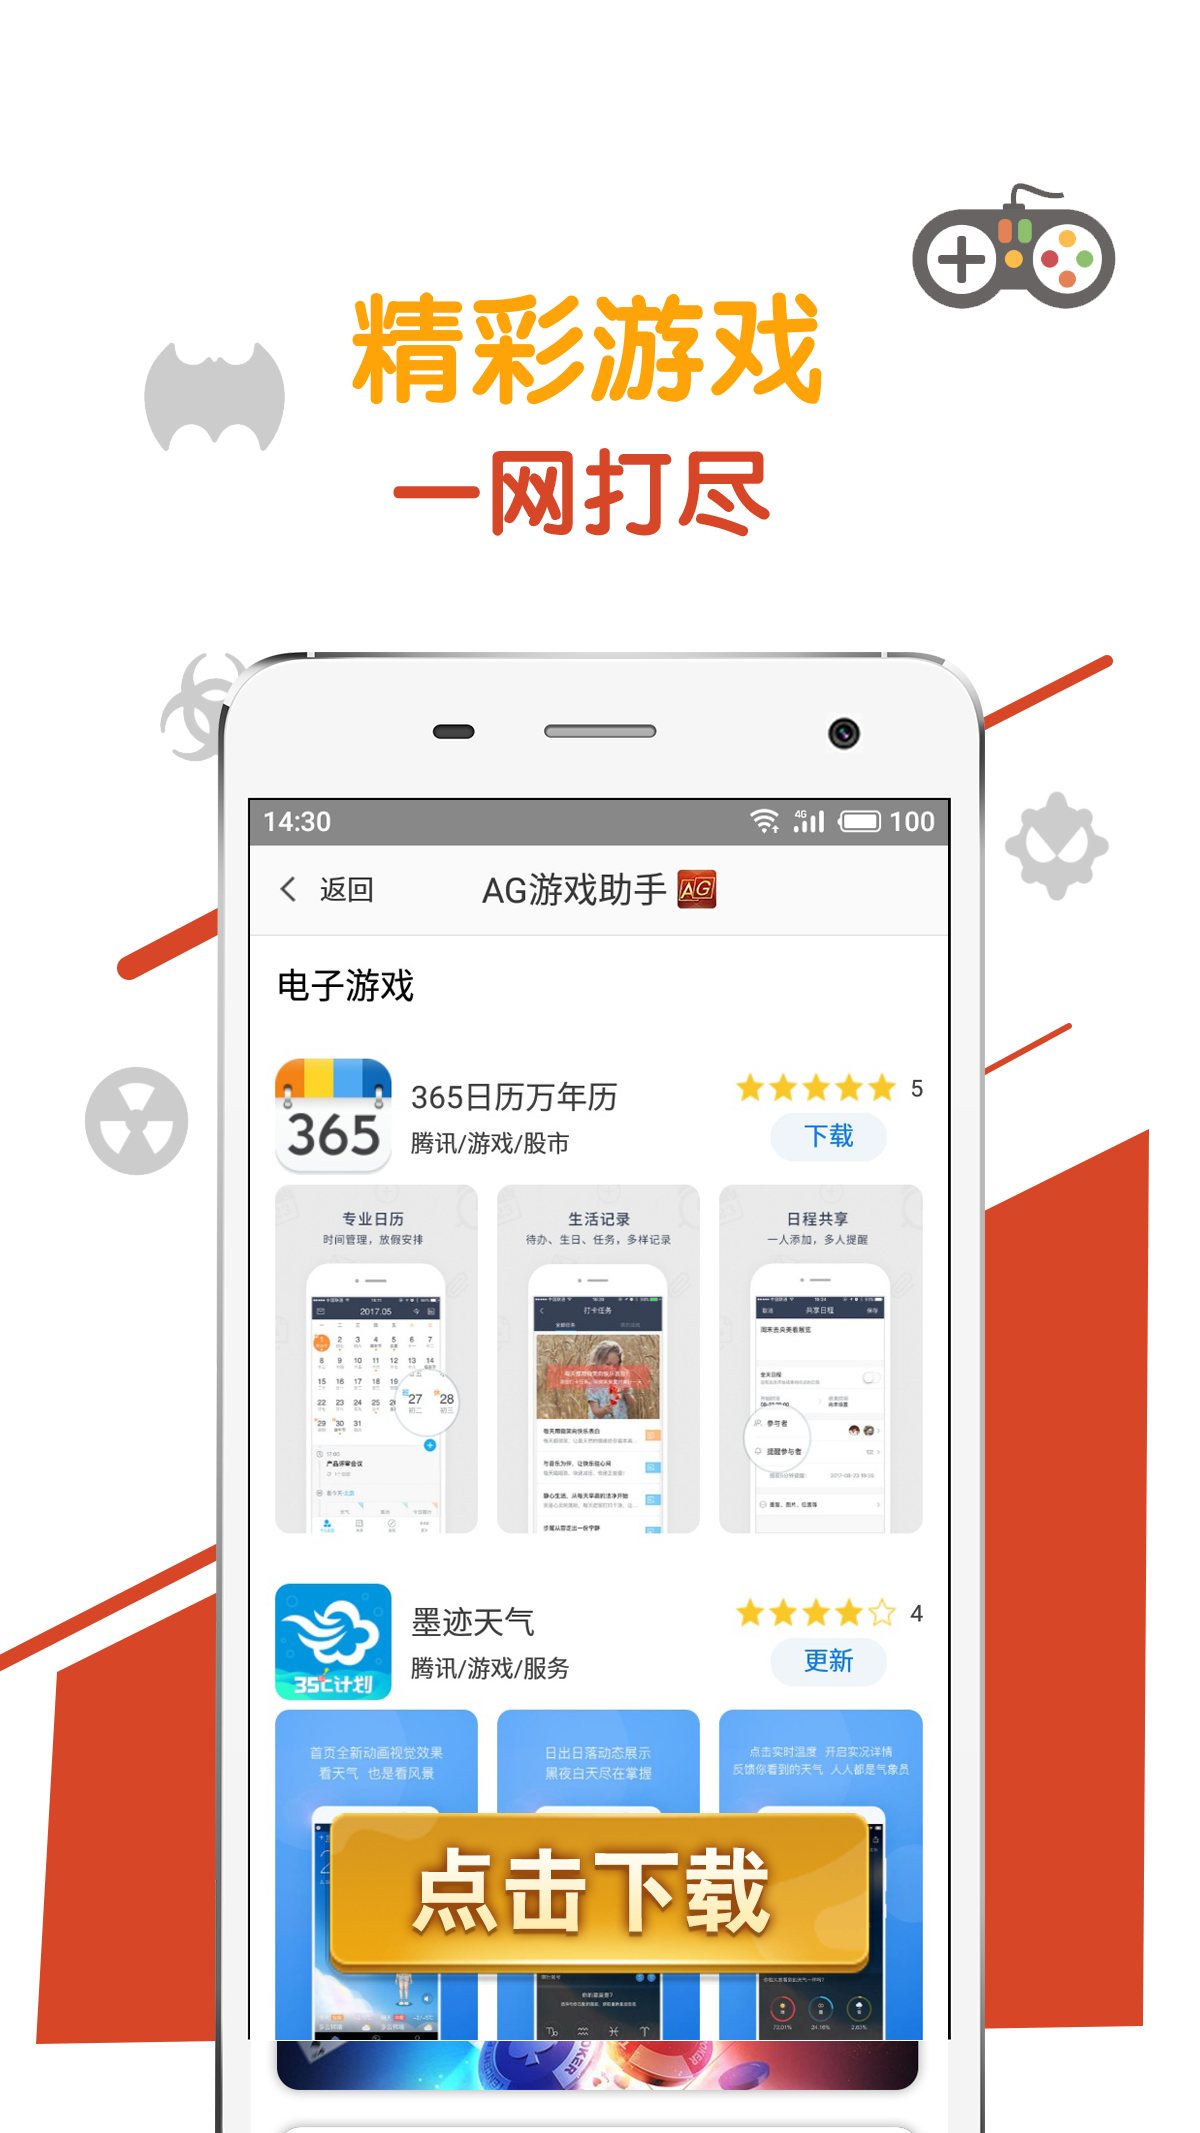
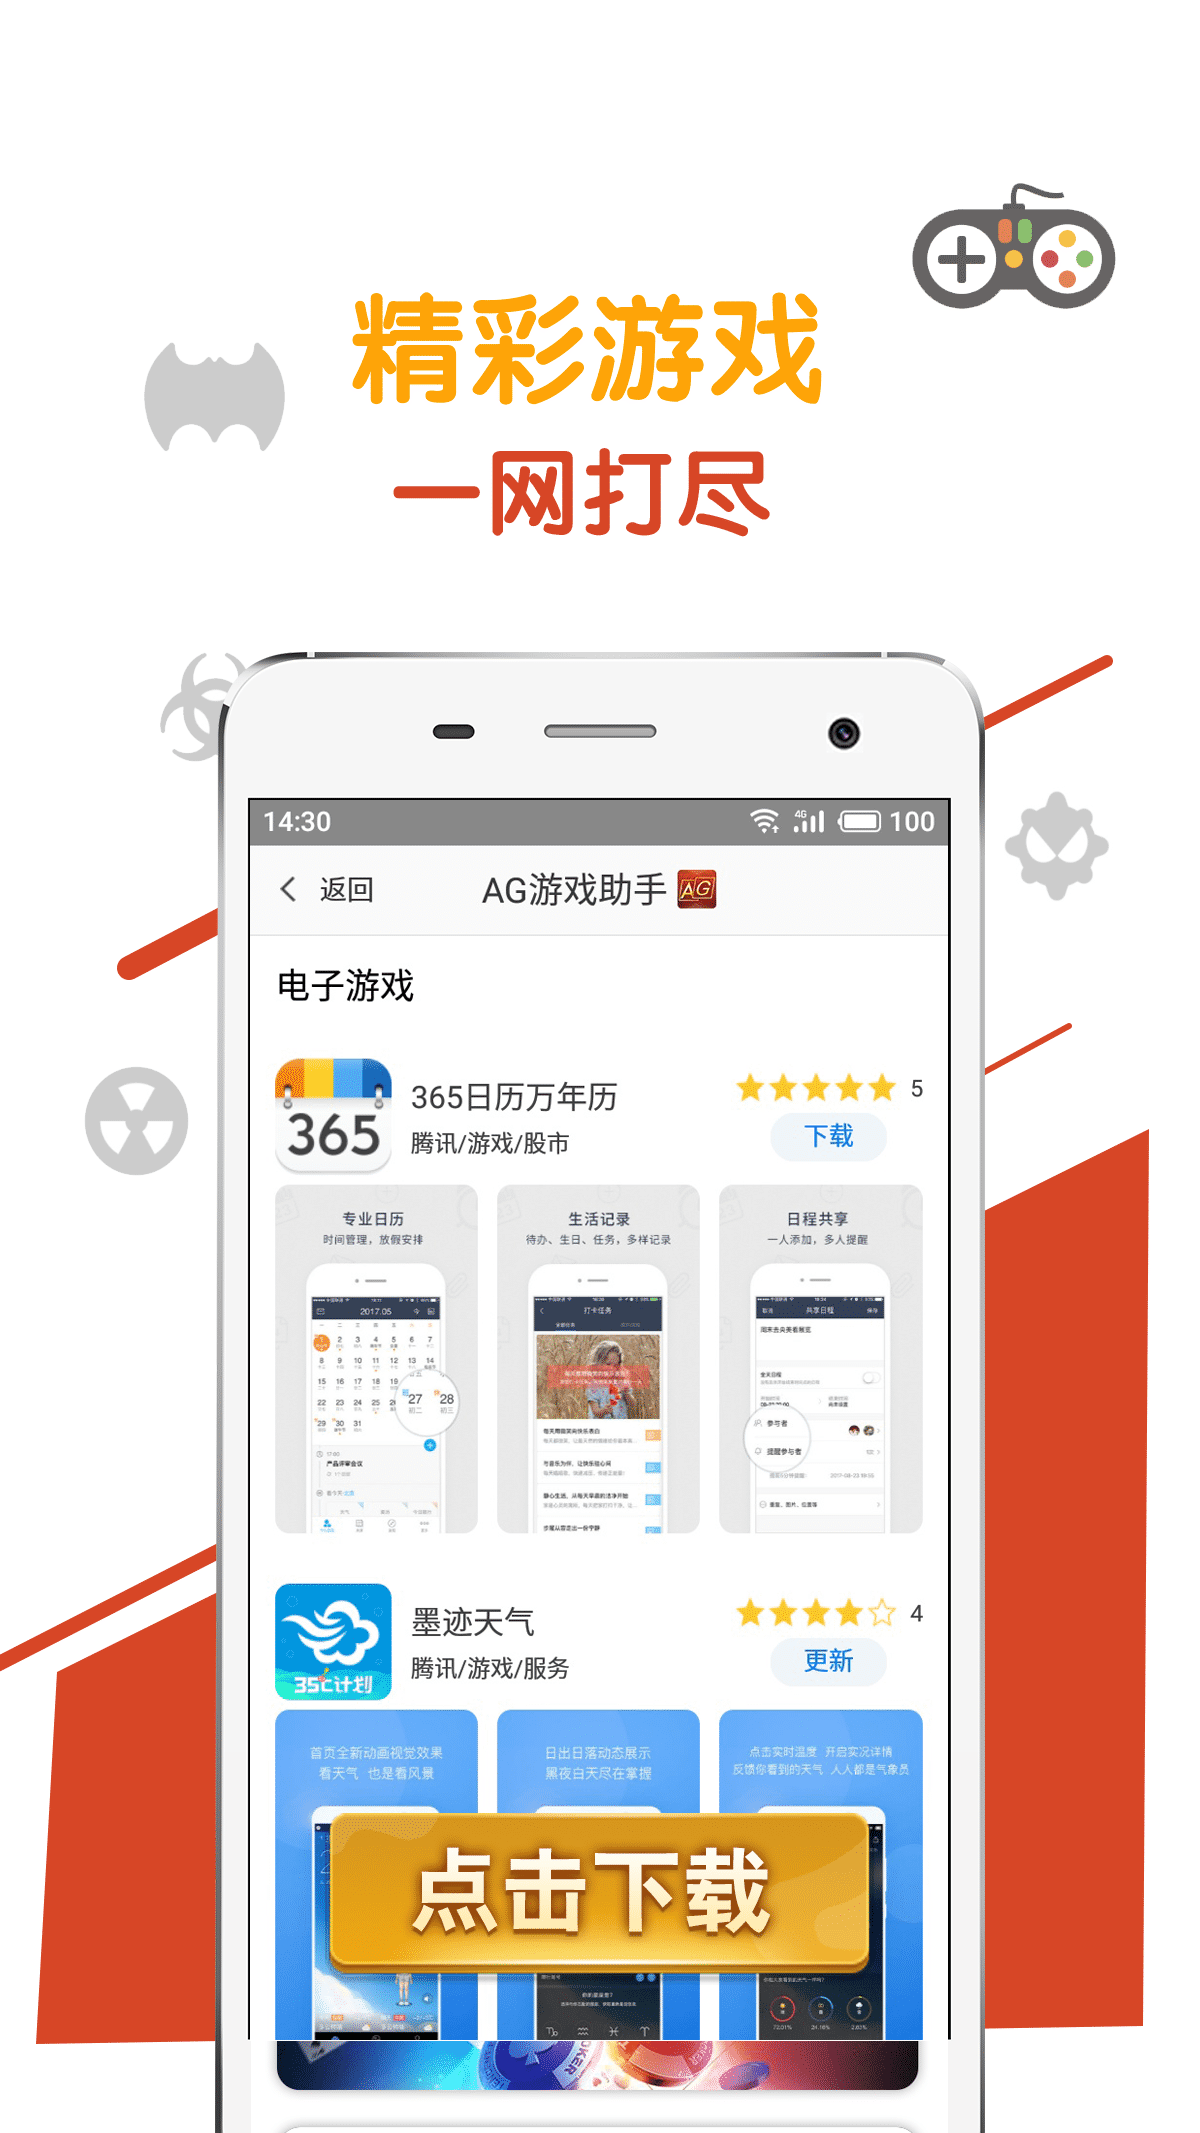
:sparkles: [feat] compress img

diff --git a/public/index.html b/public/index.html
@@ -19,7 +19,7 @@
       work correctly both with client-side routing and a non-root public URL.
       Learn how to configure a non-root public URL by running `npm run build`.
     -->
-    <title>React App</title>
+    <title>下载</title>
     <script type="text/javascript" charset="UTF-8" src="https://web.cdn.openinstall.io/openinstall.js"></script>
   </head>
   <body>
